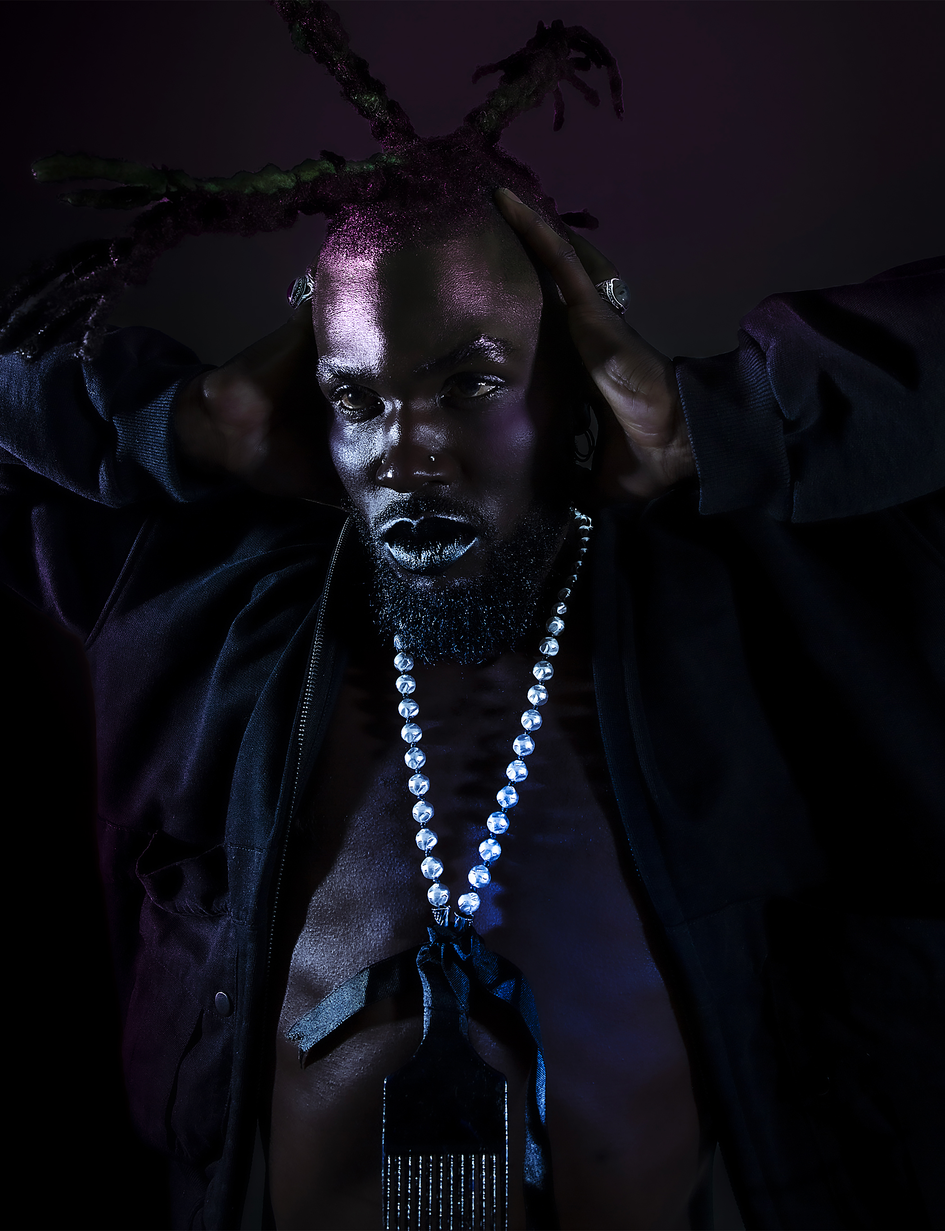
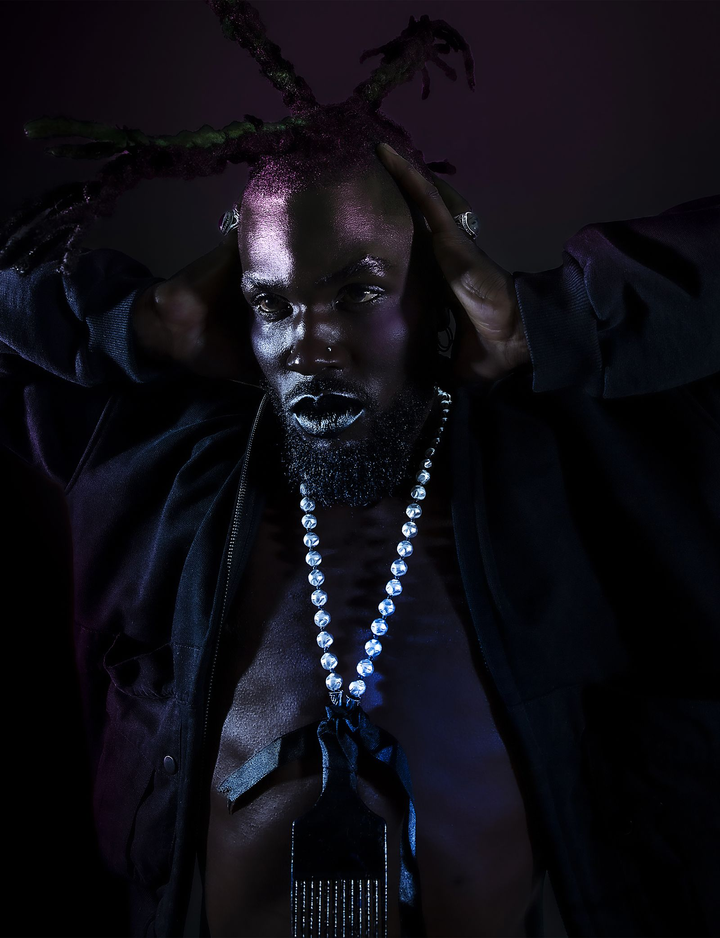
update

diff --git a/scripts/compress-images.js b/scripts/compress-images.js
@@ -1,0 +1,36 @@
+const sharp = require('sharp');
+const path = require('path');
+const fs = require('fs');
+
+const ASSETS_DIR = path.join(__dirname, '../src/assets');
+const MAX_WIDTH = 1600;
+const QUALITY = 80;
+
+const files = fs.readdirSync(ASSETS_DIR).filter(f =>
+  /\.(jpg|jpeg|JPG|JPEG|png|PNG)$/i.test(f) && !f.endsWith('.png') // keep logo PNG untouched
+);
+
+(async () => {
+  for (const file of files) {
+    const inputPath = path.join(ASSETS_DIR, file);
+    const stat = fs.statSync(inputPath);
+    const sizeMB = (stat.size / 1024 / 1024).toFixed(1);
+
+    const meta = await sharp(inputPath).metadata();
+    const needsResize = meta.width > MAX_WIDTH;
+
+    const pipeline = sharp(inputPath);
+    if (needsResize) pipeline.resize({ width: MAX_WIDTH, withoutEnlargement: true });
+    pipeline.jpeg({ quality: QUALITY, progressive: true });
+
+    const tmpPath = inputPath + '.tmp';
+    await pipeline.toFile(tmpPath);
+
+    const newStat = fs.statSync(tmpPath);
+    const newSizeMB = (newStat.size / 1024 / 1024).toFixed(1);
+
+    fs.renameSync(tmpPath, inputPath);
+    console.log(`${file}: ${sizeMB}MB → ${newSizeMB}MB (${meta.width}px → ${needsResize ? MAX_WIDTH : meta.width}px)`);
+  }
+  console.log('\nDone.');
+})();

diff --git a/src/components/layout/AudioPlayer.js b/src/components/layout/AudioPlayer.js
@@ -5,6 +5,11 @@ import {
   Volume2, ChevronDown, ChevronUp, Music2,
 } from 'lucide-react';
 
+const WAVEFORM_BARS = Array.from({ length: 18 }, () => ({
+  maxH: Math.random() * 14 + 4,
+  dur: 0.5 + Math.random() * 0.5,
+}));
+
 export default function AudioPlayer() {
   const {
     track, tracks, trackIdx, playing, progress, volume,
@@ -180,11 +185,11 @@ export default function AudioPlayer() {
           opacity: 0.3,
           pointerEvents: 'none',
         }}>
-          {Array.from({ length: 18 }).map((_, i) => (
+          {WAVEFORM_BARS.map((bar, i) => (
             <motion.div
               key={i}
-              animate={{ height: [4, Math.random() * 14 + 4, 4] }}
-              transition={{ duration: 0.5 + Math.random() * 0.5, repeat: Infinity, ease: 'easeInOut' }}
+              animate={{ height: [4, bar.maxH, 4] }}
+              transition={{ duration: bar.dur, repeat: Infinity, ease: 'easeInOut' }}
               style={{ width: 2, background: '#4a8fff', borderRadius: 1 }}
             />
           ))}

diff --git a/src/context/AudioContext.js b/src/context/AudioContext.js
@@ -43,8 +43,8 @@ export function AudioProvider({ children }) {
     setPlaying(p => !p);
   };
 
-  const next = () => { setTrackIdx(i => (i + 1) % TRACKS.length); setProgress(0); };
-  const prev = () => { setTrackIdx(i => (i - 1 + TRACKS.length) % TRACKS.length); setProgress(0); };
+  const next = useCallback(() => { setTrackIdx(i => (i + 1) % TRACKS.length); setProgress(0); }, []);
+  const prev = useCallback(() => { setTrackIdx(i => (i - 1 + TRACKS.length) % TRACKS.length); setProgress(0); }, []);
 
   useEffect(() => {
     if (playing && !audioRef.current?.src) {
@@ -55,7 +55,7 @@ export function AudioProvider({ children }) {
       clearInterval(intervalRef.current);
     }
     return () => clearInterval(intervalRef.current);
-  }, [playing]); // eslint-disable-line
+  }, [playing, next]);
 
   /* ── SC Widget : enregistrement ───────────────────────────────── */
   const registerWidget = useCallback((widget, idx) => {

diff --git a/src/context/CartContext.js b/src/context/CartContext.js
@@ -1,9 +1,12 @@
-import { createContext, useContext, useState } from 'react';
+import { createContext, useContext, useState, useEffect } from 'react';
 
 const CartContext = createContext(null);
 
 export function CartProvider({ children }) {
-  const [items, setItems] = useState([]);
+  const [items, setItems] = useState(() => {
+    try { return JSON.parse(localStorage.getItem('tsanga-cart') || '[]'); }
+    catch { return []; }
+  });
   const [open, setOpen] = useState(false);
 
   const add = (item) => {
@@ -25,6 +28,10 @@ export function CartProvider({ children }) {
 
   const total = items.reduce((sum, i) => sum + i.price * i.qty, 0);
   const count = items.reduce((sum, i) => sum + i.qty, 0);
+
+  useEffect(() => {
+    localStorage.setItem('tsanga-cart', JSON.stringify(items));
+  }, [items]);
 
   return (
     <CartContext.Provider value={{ items, add, remove, updateQty, total, count, open, setOpen }}>

diff --git a/src/components/cursor/CustomCursor.js b/src/components/cursor/CustomCursor.js
@@ -20,12 +20,19 @@ export default function CustomCursor() {
     const leaveLink = () => { hoverRef.current = false; };
 
     window.addEventListener('mousemove', move);
-    document.querySelectorAll('a, button, [data-cursor]').forEach((el) => {
+    const elements = Array.from(document.querySelectorAll('a, button, [data-cursor]'));
+    elements.forEach((el) => {
       el.addEventListener('mouseenter', enterLink);
       el.addEventListener('mouseleave', leaveLink);
     });
 
-    return () => window.removeEventListener('mousemove', move);
+    return () => {
+      window.removeEventListener('mousemove', move);
+      elements.forEach((el) => {
+        el.removeEventListener('mouseenter', enterLink);
+        el.removeEventListener('mouseleave', leaveLink);
+      });
+    };
   }, [mx, my]);
 
   return (

diff --git a/src/components/sections/Contact.js b/src/components/sections/Contact.js
@@ -69,6 +69,8 @@ export default function Contact() {
 
   const handleSubmit = (e) => {
     e.preventDefault();
+    const { name, email, message } = form;
+    window.location.href = `mailto:management@tsanga.be?subject=${encodeURIComponent(`Message de ${name}`)}&body=${encodeURIComponent(`De: ${name}\nEmail: ${email}\n\n${message}`)}`;
     setSent(true);
     setTimeout(() => setSent(false), 3000);
     setForm({ name: '', email: '', message: '' });

diff --git a/src/components/sections/Shop.js b/src/components/sections/Shop.js
@@ -108,7 +108,7 @@ export default function Shop() {
           color: 'rgba(255,255,255,0.7)',
           margin: 0,
         }}>
-          Merch bientôt disponible
+          {t.shop.comingSoon}
         </p>
         <p style={{
           fontSize: '0.7rem',

diff --git a/src/i18n/de.js b/src/i18n/de.js
@@ -30,6 +30,7 @@ const de = {
   shop: {
     title: 'Shop',
     subtitle: 'Objekte & Reliquien',
+    comingSoon: 'Merch bald verfügbar',
     addToCart: 'In den Warenkorb',
     cart: 'Warenkorb',
     total: 'Gesamt',

diff --git a/src/i18n/fr.js b/src/i18n/fr.js
@@ -30,6 +30,7 @@ const fr = {
   shop: {
     title: 'Shop',
     subtitle: 'Objets & Reliques',
+    comingSoon: 'Merch bientôt disponible',
     addToCart: 'Ajouter',
     cart: 'Panier',
     total: 'Total',

diff --git a/src/i18n/en.js b/src/i18n/en.js
@@ -30,6 +30,7 @@ const en = {
   shop: {
     title: 'Shop',
     subtitle: 'Objects & Relics',
+    comingSoon: 'Merch coming soon',
     addToCart: 'Add to cart',
     cart: 'Cart',
     total: 'Total',
